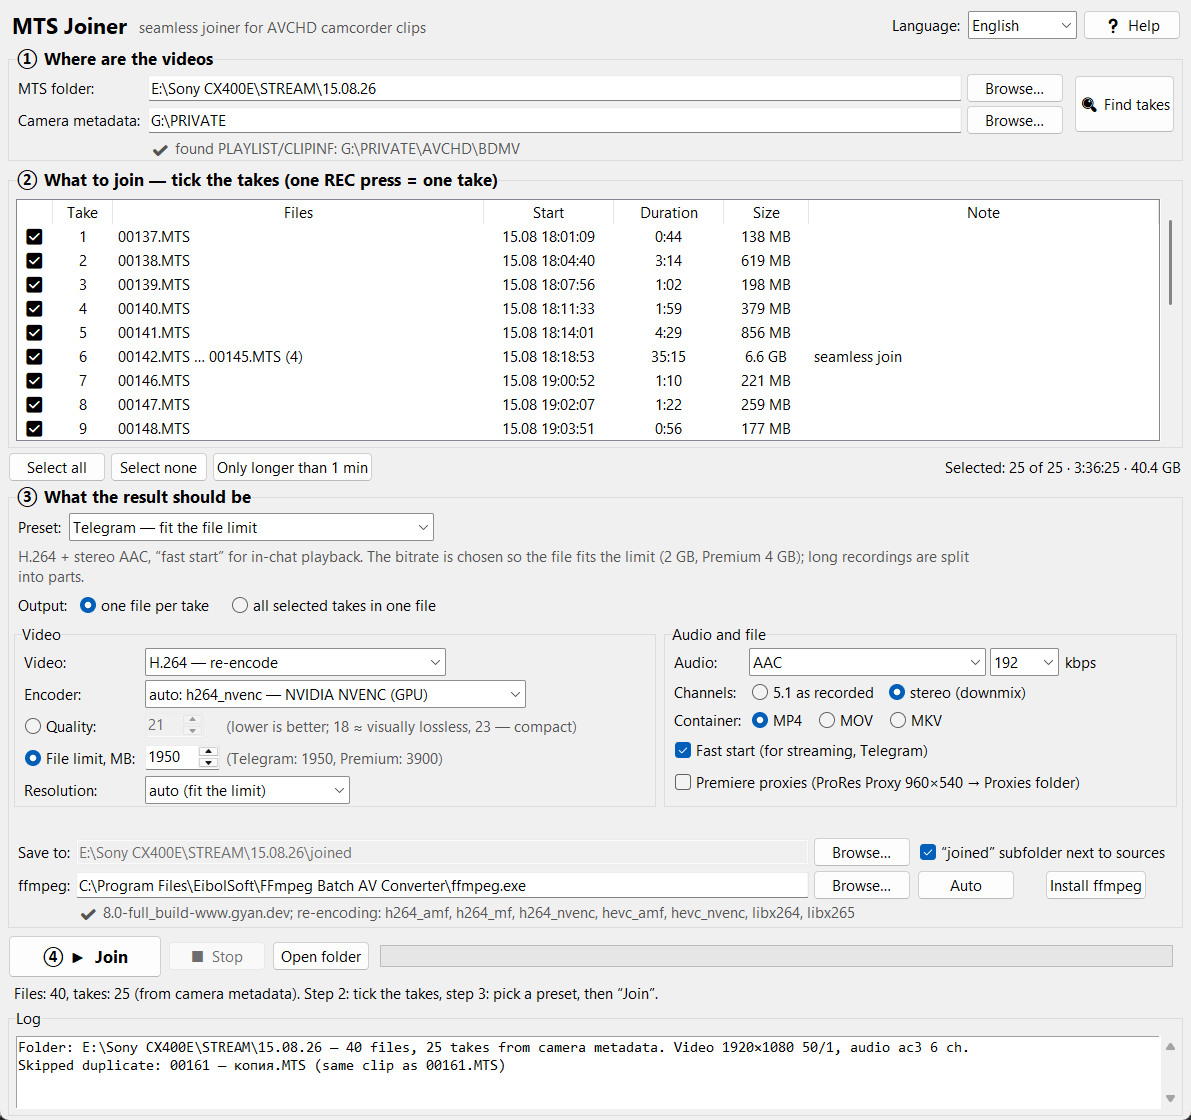
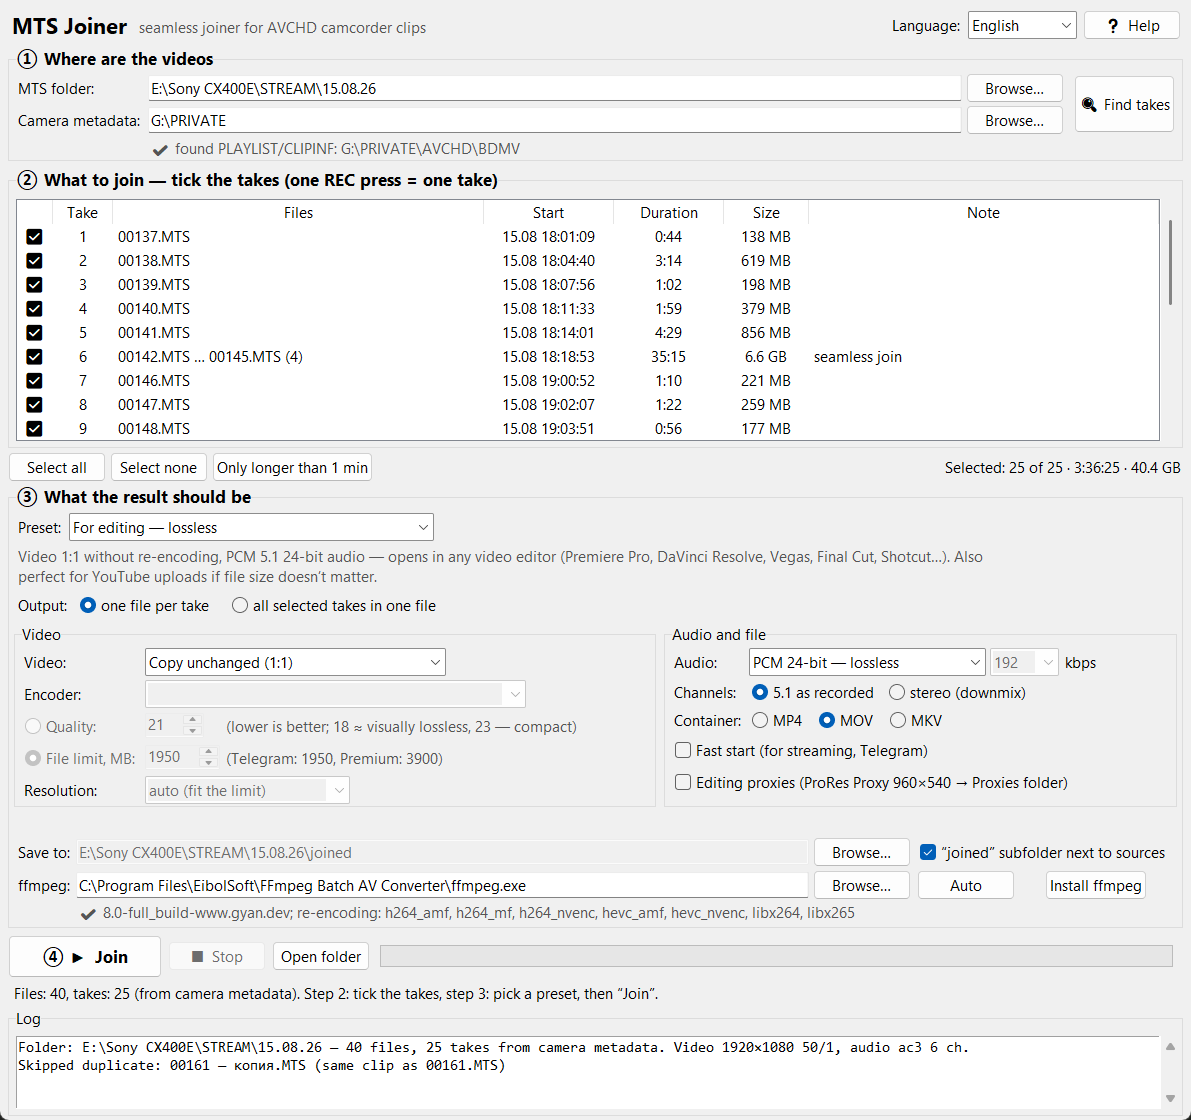
v1.2.1: лицензия MIT, двуязычное начало README, без привязки к Premiere
- LICENSE (MIT).
- README: в начале краткое описание и «Как пользоваться» на русском и
  английском; полный английский — README.en.md.
- Пресет «Монтаж в Premiere» → «Для монтажа — без потерь»; тексты,
  подсказки и справка говорят о любом видеоредакторе (Premiere Pro,
  DaVinci Resolve, Vegas, Final Cut, Shotcut…), прокси — с примерами
  для Premiere и Resolve.

diff --git a/mtsjoiner/core.py b/mtsjoiner/core.py
@@ -546,7 +546,7 @@ class Preset:
 
 
 PRESETS = [
-    Preset("premiere", dict(container="mov", video="copy", audio="pcm", stereo=False, faststart=False)),
+    Preset("edit", dict(container="mov", video="copy", audio="pcm", stereo=False, faststart=False)),
     Preset("archive", dict(container="mp4", video="copy", audio="copy", stereo=False, faststart=False)),
     Preset("youtube", dict(container="mp4", video="copy", audio="aac", audio_kbps=512, stereo=False,
                            faststart=True)),
@@ -564,7 +564,7 @@ def apply_preset(opts: Options, key: str) -> Options:
 
 
 def effective_container(opts: Options) -> str:
-    # PCM в MP4 Premiere/плееры не читают — пишем MOV
+    # PCM в MP4 видеоредакторы и плееры не читают — пишем MOV
     if opts.audio == "pcm" and opts.container == "mp4":
         return "mov"
     return opts.container
@@ -823,7 +823,7 @@ def build_jobs(ffmpeg: str, takes: list[Take], opts: Options, prefix: str,
             cmd = [*base, "-i", str(j.output), "-map", "0:v:0", "-map", "0:a:0?",
                    "-vf", "scale=960:540:flags=bilinear,format=yuv422p10le",
                    "-c:v", "prores_ks", "-profile:v", "0", "-vendor", "apl0",
-                   # Premiere требует у прокси то же число аудиоканалов — копируем звук как есть
+                   # видеоредакторы требуют у прокси то же число аудиоканалов — копируем звук как есть
                    "-c:a", "copy", str(out)]
             jobs.append(Job("proxy", f"{T('core.proxy')} → {out.name}", cmd, out, j.duration))
     return jobs

diff --git a/mtsjoiner/app.py b/mtsjoiner/app.py
@@ -111,7 +111,7 @@ class App(tk.Tk):
         self._applying = False
         self._ff_manual = bool(s.get("ffmpeg_manual"))
         self.saved_encoder = s.get("encoder", "")
-        self.preset_key = s.get("preset", "premiere")
+        self.preset_key = {"premiere": "edit"}.get(s.get("preset"), s.get("preset") or "edit")
         self.log_lines: list[str] = []
 
         d = core.Options()

diff --git a/mtsjoiner/__init__.py b/mtsjoiner/__init__.py
@@ -1,1 +1,1 @@
-__version__ = "1.2.0"
+__version__ = "1.2.1"

diff --git a/README.en.md b/README.en.md
@@ -4,8 +4,8 @@
 
 A free Windows tool that joins the `.MTS` files your AVCHD camcorder split a recording into (Sony
 Handycam, Panasonic, Canon, JVC) back into whole recordings — **no re-encoding, no quality loss and no
-gaps at the joins** (no black frames or missing audio between clips in Premiere Pro). Plus ready-made
-presets for **Premiere editing, YouTube, Telegram** and **compact storage (HEVC)**.
+gaps at the joins** (no black frames or missing audio between clips in your video editor). Plus ready-made
+presets for **editing, YouTube, Telegram** and **compact storage (HEVC)**. Free, [MIT](LICENSE) license.
 
 ![MTS Joiner](docs/screenshot_en.png)
 
@@ -19,16 +19,18 @@ You film a concert, wedding, lecture or stage show on an AVCHD camcorder — and
 hour-long video the card holds **10-minute files**: `00142.MTS`, `00143.MTS`, `00144.MTS`… The camera
 splits the recording into **2 GB** pieces (a memory card file-system limit).
 
-Put those pieces back to back in Premiere Pro (or DaVinci Resolve, Vegas, etc.) and **every join** gets:
+Put those pieces back to back in a video editor (Premiere Pro, DaVinci Resolve, Vegas, Final Cut, Shotcut…)
+and **every join** gets:
 
 - **~0.77 s of black screen with sound** at the start of a piece;
 - **~0.77 s of picture without sound** at the end of the previous one.
 
-On top of that: heavy files on an external drive (laggy preview) and **AC3 5.1** audio that Premiere on
-a recent Windows 11 may not read at all.
+On top of that: heavy files on an external drive (laggy preview) and **AC3 5.1** audio that some editors
+can’t read (e.g. Premiere Pro on a recent Windows 11).
 
 **MTS Joiner** joins the pieces back **byte by byte**, the way the camera recorded them — the joins
-disappear completely and the video stays bit-identical to the camera original.
+disappear completely and the video stays bit-identical to the camera original. The result is a regular
+MP4/MOV that opens in any video editor or player.
 
 ## Features
 
@@ -39,9 +41,9 @@ disappear completely and the video stays bit-identical to the camera original.
   files**, **names missing ones**, drops duplicates.
 - 🧩 **A file is missing?** You still get the parts before and after the gap, without black edges.
 - 📦 **Output:** one file per take or **the whole show in one file**.
-- 🎚 **Presets:** Premiere (lossless PCM), Archive (bit-exact), YouTube, Telegram (fits 2/4 GB),
+- 🎚 **Presets:** For editing (lossless PCM), Archive (bit-exact), YouTube, Telegram (fits 2/4 GB),
   Compact (HEVC, 3–5× smaller).
-- 🪶 **Premiere proxies** (ProRes Proxy) — smooth editing even from an external HDD.
+- 🪶 **Editing proxies** (ProRes Proxy) — smooth editing even from an external HDD.
 - ⚡ **GPU encoding:** NVIDIA NVENC / AMD AMF / Intel QuickSync chosen automatically (only working ones).
 - 🌐 **English and Russian UI**, hover tips on every control, built-in help.
 - 💾 **Portable:** a single `.exe`, nothing to install; source files are only read, never modified.
@@ -63,7 +65,7 @@ disappear completely and the video stays bit-identical to the camera original.
 
 | Preset | Video | Audio | Use |
 |---|---|---|---|
-| **Premiere editing — lossless** | copy 1:1 | PCM 5.1 24-bit, MOV | Editing; Premiere always reads PCM |
+| **For editing — lossless** | copy 1:1 | PCM 5.1 24-bit, MOV | Editing in any editor: everyone reads PCM |
 | **Archive — bit-exact** | copy 1:1 | AC3 5.1 (copy), MP4 | Keep it “as recorded”, smallest lossless size |
 | **YouTube — lossless** | copy 1:1 (≈25 Mbps) | AAC 512 kbps 5.1, MP4 | Direct upload: video above YouTube’s recommendation, audio at its top |
 | **Telegram — fit the limit** | H.264, auto 1080p/720p | AAC 192 kbps stereo, MP4 + fast start | Fits 2 GB (Premium 4 GB); long recordings split into parts |
@@ -127,27 +129,28 @@ Every AVCHD camera does this: the memory card uses FAT32/exFAT and the camera sp
 MTS Joiner puts it back together.
 
 ### How do I join MTS files from a Sony (Panasonic, Canon) camcorder into one file without losing quality?
-Choose the MTS folder, press “Find takes”, pick the “Premiere editing” or “Archive” preset and press
+Choose the MTS folder, press “Find takes”, pick the “For editing” or “Archive” preset and press
 “Join”. The video is copied without re-encoding — camera quality and bitrate.
 
-### Why are there black frames or missing audio between MTS clips in Premiere Pro?
+### Why are there black frames or missing audio between MTS clips in my video editor?
 Inside MTS (MPEG-TS) the audio is stored ~0.77 s ahead of the video, so the start of the next piece’s
-audio physically sits at the end of the previous file and vice versa. Premiere aligns each file on its
-own — hence ~0.77 s of black with sound and picture without sound at every join. After a byte-level join
+audio physically sits at the end of the previous file and vice versa. The editor aligns each file on its
+own (Premiere Pro, DaVinci Resolve, Vegas, …) — hence ~0.77 s of black with sound and picture without sound at every join. After a byte-level join
 with this program there are no seams.
 
-### Premiere Pro shows no audio for MTS / AC3 not supported (Windows 11 24H2)
-Premiere relies on the Windows AC3 decoder, which recent Windows 11 builds no longer ship — MTS imports
-silently. Use the **“Premiere editing”** preset: the audio is converted to **PCM** (lossless) that Premiere
-always reads.
+### My editor shows no audio for MTS / AC3 not supported (Premiere Pro, Windows 11 24H2)
+Camera audio is AC3 (Dolby Digital) and not every editor supports it: e.g. Premiere Pro relies on the
+Windows AC3 decoder, which recent Windows 11 builds no longer ship, so MTS imports silently. Use the
+**“For editing”** preset: the audio is converted to **PCM** (lossless) that every video editor reads.
 
-### Premiere Pro won’t open MTS files or AVCHD spanned clips — what to do?
-Join them into MOV (video 1:1 + PCM audio) with the “Premiere editing” preset — the standard, most
-reliable option for Premiere.
+### My editor won’t open MTS files or AVCHD spanned clips — what to do?
+Join them into MOV (video 1:1 + PCM audio) with the “For editing” preset — the most compatible option
+for Premiere Pro, DaVinci Resolve, Vegas, Final Cut and others.
 
-### MTS preview lags in Premiere (especially from an external drive)
-Tick **“Premiere proxies”**: ProRes Proxy 960×540 copies are created. In Premiere select the clips →
-*Proxy → Attach Proxies* → the `Proxies` folder. Editing becomes smooth; export still uses the originals.
+### MTS preview lags while editing (especially from an external drive)
+Tick **“Editing proxies”**: ProRes Proxy 960×540 copies are created in a `Proxies` folder. Attach them in
+your editor: Premiere Pro — *Proxy → Attach Proxies*; DaVinci Resolve — right-click a clip → *Link Proxy
+Media*. Editing becomes smooth; export still uses the originals.
 
 ### Can I just rename the MTS files so they play as one video?
 No. The camera playlist (`PLAYLIST\*.MPL`) refers to clips **by name**, renaming breaks it. MTS Joiner,
@@ -168,7 +171,7 @@ The missing piece can’t be recovered, but nothing else is lost. The recording 
 parts butted together, with the edges near the gap trimmed so there is no black-with-sound.
 
 ### How do I convert MTS to MP4 or MOV without re-encoding?
-“Archive” (MP4, bit-exact video and audio) or “Premiere editing” (MOV, video 1:1 + PCM). It’s basically
+“Archive” (MP4, bit-exact video and audio) or “For editing” (MOV, video 1:1 + PCM). It’s basically
 a copy: 35 minutes of footage take ~2–3 minutes depending on the drive.
 
 ### How do I send a long video to Telegram (2 GB limit)?
@@ -198,6 +201,9 @@ driver (ffmpeg 9 — driver 610+). Update the driver or use an older ffmpeg (8.x
 ### Does it modify or delete my source files?
 No. Source MTS and metadata are only read; results go to a separate folder.
 
+### Is it free?
+Yes — open source under the [MIT](LICENSE) license: use, modify and share it freely, commercially too.
+
 ---
 
 ## Building from source
@@ -213,6 +219,6 @@ py -m pip install pyinstaller
 ---
 
 *Keywords: join MTS files, merge MTS into one file, camcorder split video into multiple files, 2 GB file
-split, AVCHD spanned clips, lossless MTS to MP4, Premiere Pro MTS black frames between clips, Premiere no
-audio AC3, Sony Handycam HDR-CX join video, Panasonic HC-V MTS, Canon VIXIA MTS, MTS converter for
-YouTube and Telegram, Premiere proxies.*
+split, AVCHD spanned clips, lossless MTS to MP4, MTS black frames between clips, video editor no
+audio AC3, DaVinci Resolve MTS, Vegas MTS, Sony Handycam HDR-CX join video, Panasonic HC-V MTS, Canon VIXIA MTS, MTS converter for
+YouTube and Telegram, editing proxies.*
